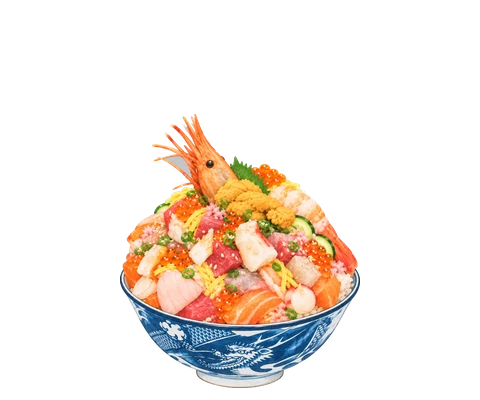
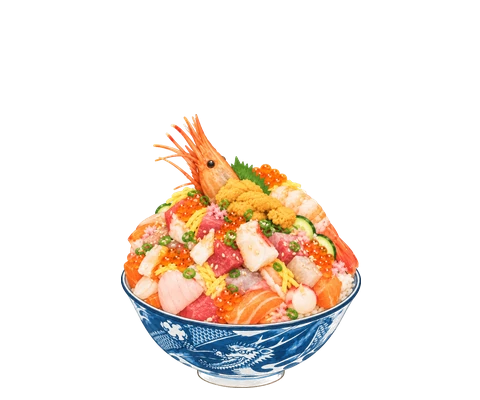
Fix mtchirashi's prawn cutout artifact, nudge food item position
The gap between the prawn's feelers wasn't being treated as background
during cutout (same enclosed-hole problem CLEAR_HOLES already handles
for the stool's legs) and left a grey patch. Added mtchirashi to
CLEAR_HOLES.

FOOD_SPOT nudged ~10px up and right from its measured position to
centre food items on the painted mat rather than sit at its exact
measured bottom edge.

Claude-Session: https://claude.ai/code/session_01Tdj66wXQKqFuepC4cD5qEY

Changed region(s): [[0.25, 0.27, 0.75, 0.96], [0.625, 0.48, 0.6562, 0.51]]

diff --git a/index.html b/index.html
@@ -285,9 +285,10 @@
   // marking the spot is now painted directly into the room art (scene/ryokan-pano*-mat.webp), not
   // drawn separately in code, so x/y here is measured pixel-for-pixel from the painted mat itself
   // (its centre x, its bottom edge y, within one room-width slice of the panorama) rather than
-  // tuned by eye — see HANDOFF-RYOKAN.md for the measurement method and why a cqw/cqh nudge isn't
-  // needed any more.
-  const FOOD_SPOT = { room: 'shokudo', x: 37.2, y: 48.7 };
+  // tuned by eye — see HANDOFF-RYOKAN.md for the measurement method. Nudged +1% x / -1.1% y from
+  // that raw measurement (~10px right, ~10px up at the usual 10px/9px-per-1% ratio) to centre food
+  // items on the mat rather than sit exactly on its measured bottom edge.
+  const FOOD_SPOT = { room: 'shokudo', x: 38.2, y: 47.6 };
 
   /* ---------- Items ---------- */
   const CAT_WIDTH = 100;

diff --git a/tools/process_art.py b/tools/process_art.py
@@ -81,7 +81,7 @@ FRONT_WALLS = {
 
 POSE_RE = re.compile(r'^(?P<cat>[a-z]+)-(?P<pose>sit|sleep|lie|head|ride|face|half|soak)(?:-(?P<n>\d+))?$')
 # Items where the backdrop seen through gaps (e.g. between a stool's legs) should be transparent too.
-CLEAR_HOLES = {'stool'}
+CLEAR_HOLES = {'stool', 'mtchirashi'}  # mtchirashi: the gap between the prawn's feelers
 # Items made from another item's raw image, at their own size (e.g. the XL taiyaki the cat rides).
 ITEM_SOURCE = {'taiyaki-xl': 'taiyaki'}
 # Items whose raw file name is not a plain slug (spaces, or a name from the generator), under the name the game uses.

diff --git a/HANDOFF-RYOKAN.md b/HANDOFF-RYOKAN.md
@@ -24,6 +24,7 @@ I'm continuing work on "Neko Ryokan", a Neko Atsume-style cat game, a static sit
 - Kaiseki (and possibly other wide/angled items) needed CENTER_BBOX in tools/process_art.py: compose() normally centres on the bottom band of content (body_centre_x, intentional for cats — see the pipeline notes above), but a box drawn at a three-quarter angle has its near-bottom corner off to one side, which threw the bottom-band centring off in a way that never happens for a cat or a simple sitting object. CENTER_BBOX names items that should use plain bounding-box centring instead.
 - Seasonal panorama: PANO_SEASONS in index.html maps real-world month groups (4 months each) to a scene/ryokan-pano*.webp file — spring (Mar-Jun) and winter (Nov-Feb) are separate files, the original maple/autumn art (scene/ryokan-pano.webp, no suffix) covers the remaining Jul-Oct as a placeholder until a true summer variant exists. Picked once at page load (applyPano(), called from start() before renderRooms()) via a `--pano` CSS variable the shared `.bg` rule reads, not rechecked on a timer since the season can't change mid-session. `?season=spring|winter|autumn` in the URL forces one for testing, bypassing the calendar. tools/process_art.py was generalized to treat any raw/scene/ryokan-pano-<suffix>.png as a panorama (full size, no resize), not just the exact 'ryokan-pano' stem — so adding a new season later is just dropping raw/scene/ryokan-pano-<name>.png in and adding an entry to PANO_SEASONS. Caution: this also picks up any other ryokan-pano-* file left in raw/scene/ (e.g. the -v2 draft files we keep around locally for comparison) and generates a scene/*.webp for each one even though nothing references them — delete those stray outputs after a pipeline run, same as the existing room-*.webp quirk above.
 - Food spot's placemat moved from a separate drawn layer (objects/food-mat.webp, no longer referenced) into the room art itself: the artist now paints the mat directly into the panorama (e.g. raw/scene/ryokan-pano-mat.png), and FOOD_SPOT's x/y in index.html is measured pixel-for-pixel from that painted mat rather than tuned by eye. Method: crop one room-width slice out of the full panorama (slice width = image width / 6; dining room is slice index 1), threshold on saturation to isolate the mat (it's far less saturated than the orange wood floor) with numpy, take the bounding box, then x% = bbox centre-x / slice width, y% = bbox bottom-y / slice height. This fixed the drift problem a cqw/cqh-nudged separate layer had across different screen sizes (see the desk/mat discussion this was motivated by) — once the mat is part of the same image that's already scaled correctly by background-size/position, there's nothing left to drift; the food-spot button just needs to sit at the same percentage the art was measured at. Every seasonal pano variant needs its own `-mat` version with the mat painted at the same spot for this to stay correct; right now only the default/autumn has one live (scene/ryokan-pano.webp currently IS the -mat version, swapped in for testing — spring.webp/winter.webp do NOT have the mat painted in yet).
+- TRAP: running the pipeline ALWAYS regenerates scene/ryokan-pano.webp from raw/scene/ryokan-pano.png (the original, non-mat art), even if you'd manually swapped a different variant (e.g. the -mat version) into that exact filename for live testing — the pipeline has no idea a manual swap happened and just overwrites it. Hit this directly: swapped ryokan-pano-mat.webp into ryokan-pano.webp, then ran the pipeline again for an unrelated fix (CLEAR_HOLES on mtchirashi), which silently reverted the swap back to the mat-less art. Food items then appeared to render in the wrong place even though FOOD_SPOT's math was correct the whole time — the mat just wasn't there any more to align with. If a live-tested swap ever looks like it "moved" or "broke" right after running the pipeline for something unrelated, re-check scene/ryokan-pano.webp's content (e.g. `md5` it against whatever you swapped in) before assuming the code is wrong.
 
 ## Cat art pipeline (tools/process_art.py)
 - Every cat pose is placed on a shared bottom baseline, then centred on the bottom 8% of its own content (BODY_BAND / body_centre_x), not on the middle of its bounding box. This was a real fix, not cosmetic: box-centring let a cat with a wider tail or paw spread (e.g. Pilpel) land visibly off from another cat (e.g. Tapuz) in the exact same spot, even though the offset in index.html was identical for both. If a new cat looks consistently offset from the others in the same pose, check this before reaching for a per-cat offset.
